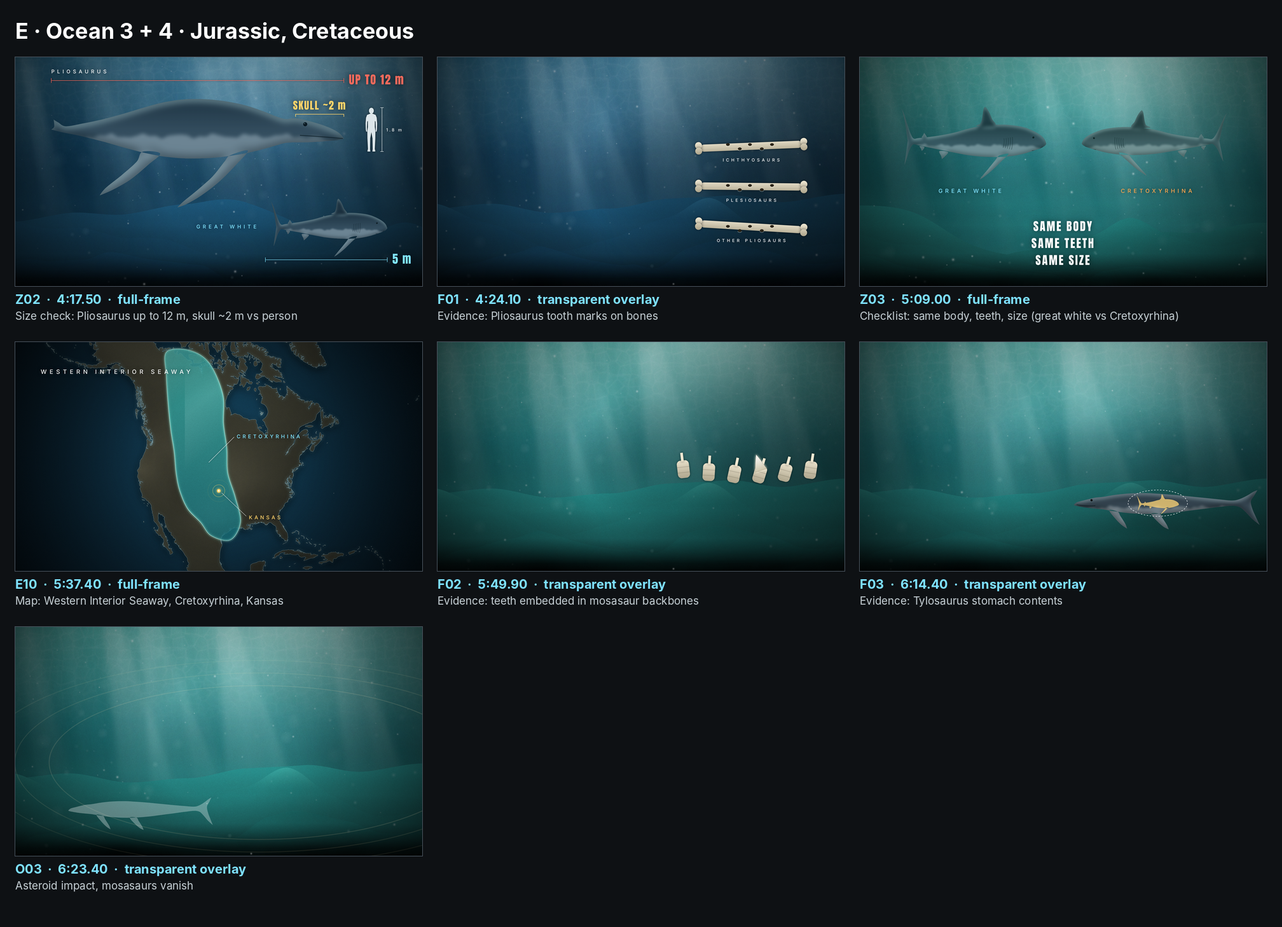
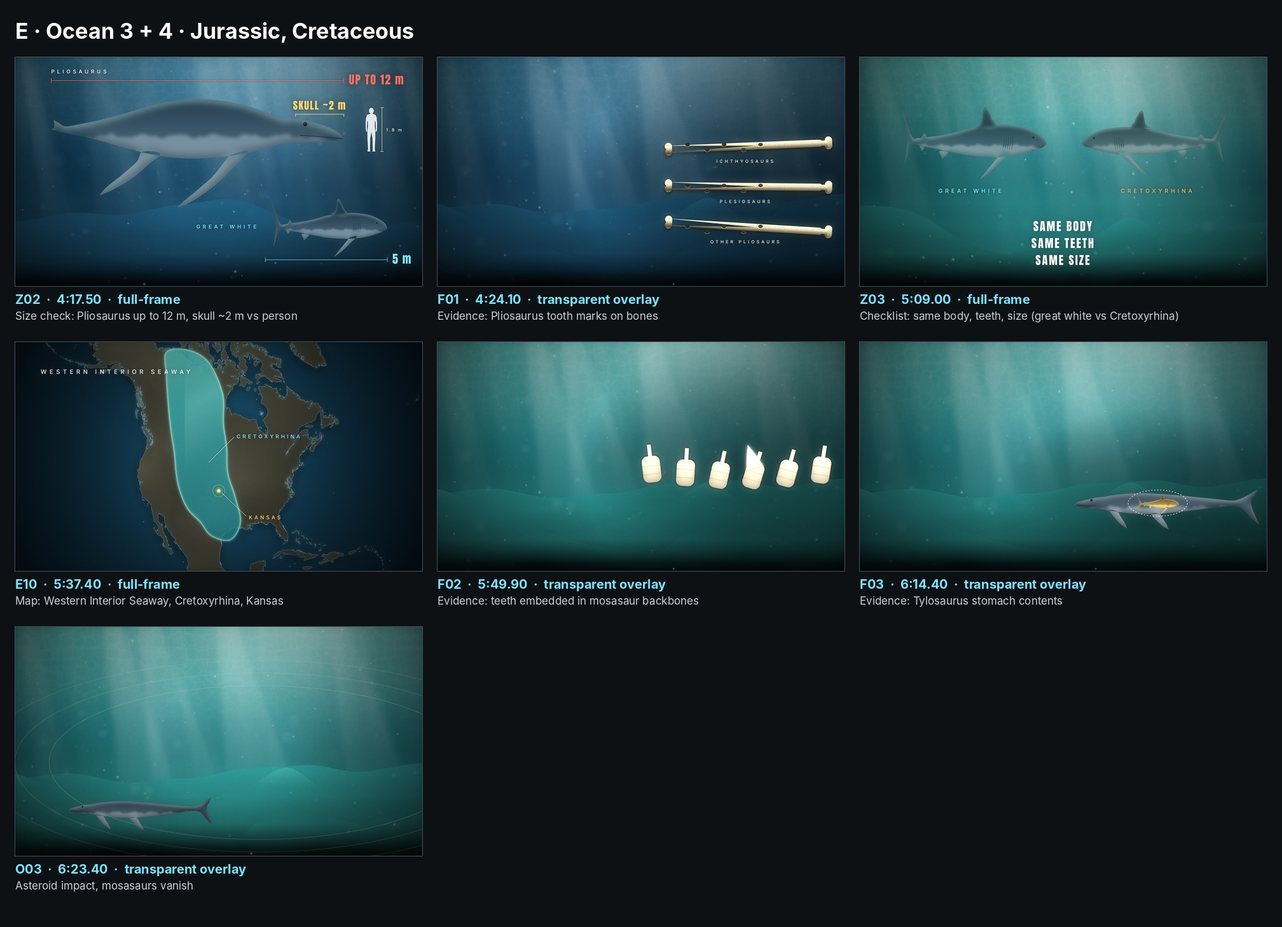
Professional lit/shaded look: shaded animals everywhere, new fish/seal/dolphin models, bloom, realistic fossils; gap graphics G07-G08; updated sheets
Claude-Session: https://claude.ai/code/session_015UoFDfg9Zm8siyh27zG8ZY

diff --git a/engine/scenes/N_E14_diet.js b/engine/scenes/N_E14_diet.js
@@ -1,8 +1,7 @@
 // E14 · VO 9:15.3  "Megalodon needed enormous meals... A great white can live on seals, fish, dolphins, or a dead whale it finds by smell."
 import { loadVO, rel } from '../lib/vo.js';
 import { cap, hair, big, veil, P, ease, lerp, fadeEdges, slow, COL } from '../lib/doc.js';
-import { drawCreature } from '../lib/creatures.js';
-import { sealIcon, fishIcon, dolphinIcon } from '../lib/props.js';
+import { lit } from '../lib/doc.js';
 const T0 = 555.3, D = 12.6; const sc = { duration: D, out: '06_doc-style/overlays/E14_diet-megalodon-vs-great-white', alpha: true, qscale: 20 };
 let R, tBut, tMeg, tGw, tSeal, tFish, tDol, tWhale;
 sc.setup = async () => { await loadVO(); R = rel(T0); tBut = R.s('built the same', 555); tMeg = R.s('enormous meals', 555); tGw = R.s('a great white can', 555); tSeal = R.s('seals', 561); tFish = R.s('fish', 562); tDol = R.s('dolphins', 563); tWhale = R.s('dead whale', 564);
@@ -13,18 +12,18 @@ sc.draw = (ctx, t) => {
   // left: megalodon, one huge meal
   const km = P(t, tMeg - 0.3, tMeg + 0.8, slow);
   cap(ctx, 'MEGALODON', 460, 330, { align: 'center', font: '500 24px Inter', ls: 12, a: km, color: '#ffa64d' });
-  drawCreature(ctx, 'megalodon', { x: 440, y: 560, len: 640, color: `rgba(255,166,77,${0.9 * km})`, phase: t * 2, flip: false });
-  ctx.save(); ctx.globalAlpha *= km; drawCreature(ctx, 'dorudon', { x: 640, y: 690, len: 300, color: 'rgba(255,255,255,0.85)', phase: 0, angle: 0.25 }); ctx.restore();
+  ctx.save(); ctx.globalAlpha *= km; lit(ctx, 'megalodon', { pal: 'rival', x: 440, y: 560, len: 640, phase: t * 2 }); ctx.restore();
+  ctx.save(); ctx.globalAlpha *= km; lit(ctx, 'dorudon', { pal: 'prey', x: 650, y: 700, len: 300, phase: 0, amp: 0, angle: 0.25 }); ctx.restore();
     // divider
   hair(ctx, 960, 300, 960, 860, P(t, tGw - 0.3, tGw + 0.6, ease.outCubic), 0.5);
   // right: great white, many options
   const kg = P(t, tGw - 0.1, tGw + 0.8, slow);
   cap(ctx, 'GREAT WHITE', 1420, 330, { align: 'center', font: '500 24px Inter', ls: 12, a: kg, color: '#7fe3ff' });
-  drawCreature(ctx, 'greatwhite', { x: 1420, y: 480, len: 400, color: `rgba(127,227,255,${0.9 * kg})`, phase: t * 4, flip: false });
-  const items = [[tSeal, 'SEALS', 1060, (x, y, a) => sealIcon(ctx, x, y, 110, '#ffffff', a, t * 4)], [tFish, 'FISH', 1210, (x, y, a) => fishIcon(ctx, x, y, 100, '#ffffff', a, false, t * 6)], [tDol, 'DOLPHINS', 1370, (x, y, a) => dolphinIcon(ctx, x, y, 130, '#ffffff', a, t * 4)]];
+  ctx.save(); ctx.globalAlpha *= kg; lit(ctx, 'greatwhite', { pal: 'gw', x: 1420, y: 480, len: 400, phase: t * 4 }); ctx.restore();
+  const items = [[tSeal, 'SEALS', 1060, (x, y, a) => { ctx.save(); ctx.globalAlpha *= a; lit(ctx, 'seal', { pal: 'grey', x, y, len: 150, phase: t * 4, fogA: 0.02 }); ctx.restore(); }], [tFish, 'FISH', 1210, (x, y, a) => { ctx.save(); ctx.globalAlpha *= a; lit(ctx, 'fish', { pal: 'grey', x, y, len: 110, phase: t * 6, fogA: 0.02 }); ctx.restore(); }], [tDol, 'DOLPHINS', 1370, (x, y, a) => { ctx.save(); ctx.globalAlpha *= a; lit(ctx, 'dolphin', { pal: 'grey', x, y, len: 190, phase: t * 4, fogA: 0.02 }); ctx.restore(); }]];
   items.forEach(([tt, name, x, draw]) => { const k = P(t, tt - 0.1, tt + 0.5, ease.outBack), ka = P(t, tt - 0.1, tt + 0.5); draw(x, 690 - (1 - Math.min(k, 1)) * 20, ka);  });
   const kw = P(t, tWhale - 0.1, tWhale + 0.6, slow);
-  if (kw > 0) { ctx.save(); ctx.globalAlpha *= kw; drawCreature(ctx, 'dorudon', { x: 1620, y: 700, len: 190, color: 'rgba(255,255,255,0.85)', phase: 0, angle: -0.45 }); ctx.strokeStyle = 'rgba(160,235,255,0.8)'; ctx.lineWidth = 2; for (let i = 0; i < 3; i++) { const a = (t * 0.8 + i / 3) % 1; ctx.globalAlpha = kw * (1 - a) * 0.8; ctx.beginPath(); ctx.arc(1620, 700, 40 + a * 120, -0.9, 0.9); ctx.stroke(); } ctx.restore(); }
+  if (kw > 0) { ctx.save(); ctx.globalAlpha *= kw; lit(ctx, 'dorudon', { pal: 'prey', x: 1620, y: 700, len: 210, phase: 0, amp: 0, angle: -0.45 }); ctx.strokeStyle = 'rgba(160,235,255,0.8)'; ctx.lineWidth = 2; for (let i = 0; i < 3; i++) { const a = (t * 0.8 + i / 3) % 1; ctx.globalAlpha = kw * (1 - a) * 0.8; ctx.beginPath(); ctx.arc(1620, 700, 40 + a * 120, -0.9, 0.9); ctx.stroke(); } ctx.restore(); }
   ctx.restore();
 };
 export default sc;

diff --git a/engine/lib/props.js b/engine/lib/props.js
@@ -1,11 +1,17 @@
+import { lit } from './doc.js';
 // Simple vector props for evidence / diet graphics (flat, clean silhouettes + a few shaded bits).
 export function bone(ctx, x, y, len, ang = 0, a = 1) {
-  ctx.save(); ctx.translate(x, y); ctx.rotate(ang); ctx.globalAlpha *= a; ctx.shadowColor = 'rgba(0,0,0,0.5)'; ctx.shadowBlur = 14;
-  const g = ctx.createLinearGradient(0, -34, 0, 34); g.addColorStop(0, '#f3ecd8'); g.addColorStop(1, '#a9a086'); ctx.fillStyle = g;
-  const h = len / 2, w = 17, k = 21;
-  ctx.beginPath(); ctx.roundRect(-h + k, -w, len - 2 * k, 2 * w, w); ctx.fill();
-  for (const sx of [-1, 1]) for (const sy of [-1, 1]) { ctx.beginPath(); ctx.arc(sx * (h - k * 0.55), sy * (k * 0.62), k * 0.78, 0, 7); ctx.fill(); }
-  ctx.restore();
+  ctx.save(); ctx.translate(x, y); ctx.rotate(ang); ctx.globalAlpha *= a;
+  const h = len / 2, w = 17, k = 22;
+  const path = new Path2D(); path.roundRect(-h + k, -w, len - 2 * k, 2 * w, w);
+  for (const sx of [-1, 1]) for (const sy of [-1, 1]) path.arc(sx * (h - k * 0.55) + k * 0.78, sy * (k * 0.62), k * 0.78, 0, Math.PI * 2);
+  ctx.shadowColor = 'rgba(0,0,0,0.55)'; ctx.shadowBlur = 16; ctx.shadowOffsetY = 6;
+  const g = ctx.createLinearGradient(0, -k, 0, k); g.addColorStop(0, '#e9e0c6'); g.addColorStop(0.45, '#bdb394'); g.addColorStop(1, '#6f664f'); ctx.fillStyle = g; ctx.fill(path);
+  ctx.shadowColor = 'transparent'; ctx.save(); ctx.clip(path);
+  for (let i = 0; i < 90; i++) { const px = -h + ((i * 53) % 100) / 100 * len, py = -k + ((i * 37) % 100) / 100 * k * 2; ctx.fillStyle = i % 3 ? 'rgba(60,48,30,0.18)' : 'rgba(255,250,230,0.16)'; ctx.beginPath(); ctx.arc(px, py, 1 + (i % 4) * 0.6, 0, 7); ctx.fill(); }
+  const hl = ctx.createLinearGradient(0, -w, 0, w * 0.2); hl.addColorStop(0, 'rgba(255,255,240,0.45)'); hl.addColorStop(1, 'rgba(255,255,240,0)'); ctx.fillStyle = hl; ctx.fillRect(-h, -w, len, w * 1.2);
+  const sd = ctx.createLinearGradient(0, 0, 0, w); sd.addColorStop(0, 'rgba(0,0,0,0)'); sd.addColorStop(1, 'rgba(20,14,6,0.45)'); ctx.fillStyle = sd; ctx.fillRect(-h, 0, len, w * 1.4);
+  ctx.restore(); ctx.restore();
 }
 // a bite puncture: dark pit with a lit rim; k = 0..1 press-in animation
 export function puncture(ctx, x, y, r, k) {
@@ -26,10 +32,9 @@ export function vertebra(ctx, x, y, s, ang = 0, a = 1) {
   ctx.strokeStyle = 'rgba(70,60,40,0.35)'; ctx.lineWidth = 1.5; ctx.beginPath(); ctx.moveTo(-s * 0.55, -s * 0.2); ctx.lineTo(s * 0.55, -s * 0.2); ctx.moveTo(-s * 0.55, s * 0.3); ctx.lineTo(s * 0.55, s * 0.3); ctx.stroke(); ctx.restore();
 }
 export function skull(ctx, x, y, s, a = 1) {
-  ctx.save(); ctx.translate(x, y); ctx.globalAlpha *= a; ctx.shadowColor = 'rgba(0,0,0,0.5)'; ctx.shadowBlur = 12;
-  const g = ctx.createLinearGradient(0, -s, 0, s); g.addColorStop(0, '#f1ead6'); g.addColorStop(1, '#aca388'); ctx.fillStyle = g;
-  ctx.beginPath(); ctx.moveTo(-s, -s * 0.2); ctx.quadraticCurveTo(-s * 0.6, -s * 0.9, -s * 0.05, -s * 0.7); ctx.lineTo(s * 1.3, -s * 0.12); ctx.lineTo(s * 1.3, s * 0.12); ctx.lineTo(s * 0.1, s * 0.35); ctx.quadraticCurveTo(-s * 0.7, s * 0.6, -s, -s * 0.2); ctx.closePath(); ctx.fill();
-  ctx.fillStyle = '#2b2418'; ctx.beginPath(); ctx.arc(-s * 0.05, -s * 0.18, s * 0.17, 0, 7); ctx.fill(); ctx.restore();
+  // a real skull: the head of the shaded Dorudon model, cropped, in bone colours
+  ctx.save(); ctx.globalAlpha *= a; const L = s * 5.2; ctx.beginPath(); ctx.rect(x - 0.13 * L, y - 0.14 * L, 0.27 * L, 0.28 * L); ctx.clip();
+  lit(ctx, 'dorudon', { pal: 'bone', x: x - 0.39 * L, y, len: L, phase: 0, amp: 0, fog: ['#0b1a1c', 0.0] }); ctx.restore();
 }
 export function plesiosaur(ctx, x, y, s, color, a = 1, dash = false) {
   ctx.save(); ctx.translate(x, y); ctx.globalAlpha *= a; ctx.fillStyle = color; ctx.strokeStyle = color; ctx.lineWidth = 2.5; if (dash) ctx.setLineDash([8, 6]);

diff --git a/engine/lib/creatures.js b/engine/lib/creatures.js
@@ -113,6 +113,28 @@ const BASI_FINS = [
   [[0.382, 0.027], [0.377, 0.036, S], [0.371, 0.027]],
 ];
 
+
+const FISH_BODY = [
+  [1.000, 0.010, S], [0.970, -0.040], [0.910, -0.085], [0.820, -0.120], [0.700, -0.140], [0.570, -0.135], [0.440, -0.110], [0.320, -0.078], [0.220, -0.046], [0.150, -0.026],
+  [0.115, -0.040], [0.075, -0.110], [0.035, -0.180], [0.000, -0.220, S], [0.030, -0.110], [0.050, -0.020], [0.060, 0.000, S], [0.050, 0.020], [0.030, 0.110], [0.000, 0.220, S],
+  [0.035, 0.180], [0.075, 0.110], [0.115, 0.040], [0.150, 0.026], [0.220, 0.046], [0.320, 0.078], [0.440, 0.110], [0.570, 0.135], [0.700, 0.140], [0.820, 0.120], [0.910, 0.085], [0.970, 0.040],
+];
+const FISH_FINS = [
+  [[0.560, -0.134], [0.510, -0.200], [0.430, -0.225, S], [0.370, -0.150], [0.340, -0.100]],
+  [[0.500, 0.132], [0.460, 0.190, S], [0.420, 0.120]],
+];
+const DOLPHIN_BODY = [
+  [1.000, 0.012, S], [0.970, 0.000], [0.930, -0.010], [0.900, -0.030], [0.860, -0.055], [0.800, -0.075], [0.700, -0.092], [0.600, -0.100], [0.500, -0.098], [0.400, -0.085], [0.300, -0.065], [0.200, -0.042], [0.120, -0.025],
+  [0.075, -0.022], [0.040, -0.050], [0.010, -0.085, S], [0.030, -0.030], [0.040, 0.000, S], [0.030, 0.030], [0.010, 0.085, S], [0.040, 0.050], [0.075, 0.022],
+  [0.120, 0.025], [0.200, 0.042], [0.300, 0.065], [0.400, 0.085], [0.500, 0.098], [0.600, 0.100], [0.700, 0.090], [0.800, 0.070], [0.860, 0.050], [0.900, 0.030], [0.940, 0.018], [0.980, 0.014],
+];
+const DOLPHIN_FINS = [[[0.520, -0.098], [0.470, -0.160], [0.430, -0.175, S], [0.400, -0.090]], [[0.680, 0.085], [0.640, 0.140, S], [0.600, 0.090]]];
+const SEAL_BODY = [
+  [1.000, 0.010, S], [0.970, -0.030], [0.930, -0.070], [0.880, -0.090], [0.840, -0.085], [0.800, -0.070], [0.740, -0.090], [0.650, -0.120], [0.520, -0.135], [0.400, -0.125], [0.280, -0.100], [0.180, -0.070], [0.100, -0.040],
+  [0.040, -0.055, S], [0.000, -0.010, S], [0.040, 0.055, S], [0.100, 0.030], [0.180, 0.070], [0.280, 0.100], [0.400, 0.125], [0.520, 0.135], [0.640, 0.120], [0.740, 0.090], [0.820, 0.075], [0.880, 0.060], [0.940, 0.040], [0.985, 0.025],
+];
+const SEAL_FINS = [[[0.680, 0.110], [0.640, 0.200, S], [0.600, 0.120]]];
+
 export const SPECIES = {
   greatwhite: { body: GW_BODY, fins: GW_FINS, eye: [0.915, -0.030, 0.0065], gills: [0.778, 0.723], mouth: [[0.976, 0.031], [0.905, 0.056]], undulate: 'tail', len: 5 },
   megalodon: { body: MEG_BODY, fins: MEG_FINS, eye: [0.912, -0.034, 0.006], gills: [0.785, 0.722], mouth: [[0.982, 0.034], [0.900, 0.066]], undulate: 'tail', len: 16 },
@@ -122,6 +144,9 @@ export const SPECIES = {
   pliosaurus: { body: PLIO_BODY, fins: PLIO_FINS, eye: [0.868, -0.018, 0.007], mouth: [[0.997, 0.031], [0.850, 0.020]], skull: 0.82, undulate: 'flippers', len: 12 },
   tylosaurus: { body: TYLO_BODY, fins: TYLO_FINS, eye: [0.905, -0.016, 0.006], mouth: [[0.985, 0.008], [0.885, 0.014]], undulate: 'tail', len: 13 },
   dorudon: { body: DORU_BODY, fins: DORU_FINS, eye: [0.875, -0.024, 0.008], mouth: [[0.995, 0.014], [0.905, 0.020]], undulate: 'vertical', len: 5 },
+  fish: { body: FISH_BODY, fins: FISH_FINS, eye: [0.90, -0.030, 0.012], undulate: 'tail', len: 1 },
+  dolphin: { body: DOLPHIN_BODY, fins: DOLPHIN_FINS, eye: [0.86, -0.020, 0.008], mouth: [[0.995, 0.014], [0.90, 0.030]], undulate: 'vertical', len: 2.5 },
+  seal: { body: SEAL_BODY, fins: SEAL_FINS, eye: [0.915, -0.040, 0.012], undulate: 'tail', len: 2 },
   basilosaurus: { body: BASI_BODY, fins: BASI_FINS, eye: [0.940, -0.008, 0.0035], mouth: [[0.998, 0.004], [0.935, 0.006]], undulate: 'vertical', len: 17 },
 };
 

diff --git a/engine/scenes/N_G04_dorudon-surface.js b/engine/scenes/N_G04_dorudon-surface.js
@@ -2,6 +2,7 @@
 import { loadVO, rel } from '../lib/vo.js';
 import { P, ease, lerp, fadeEdges, slow, COL } from '../lib/doc.js';
 import { drawCreature } from '../lib/creatures.js';
+import { lit } from '../lib/doc.js';
 const T0 = 429.6, D = 7.2; const sc = { duration: D, out: '06_doc-style/overlays/G04_dorudon-warm-surfaces', alpha: true, qscale: 20 };
 let R, tWarm, tSurf, tFam;
 sc.setup = async () => { await loadVO(); R = rel(T0); tWarm = R.s('warm blooded', 429); tSurf = R.s('surface to breathe', 429); tFam = R.s('familiar prey', 429); sc.sfx = [{ name: 'data_blip', t: tWarm, gain: -11 }, { name: 'whoosh_slow', t: tSurf, gain: -13 }, { name: 'data_blip', t: tFam, gain: -10 }]; };
@@ -11,10 +12,10 @@ sc.draw = (ctx, t) => {
   ctx.save(); ctx.globalAlpha *= 0.7 * k; ctx.strokeStyle = 'rgba(255,255,255,0.7)'; ctx.lineWidth = 2; ctx.beginPath(); for (let x = 1050; x <= 1800; x += 10) { const y = Y0 + Math.sin(x / 40 + t * 2) * 5; x === 1050 ? ctx.moveTo(x, y) : ctx.lineTo(x, y); } ctx.stroke(); ctx.restore();
   const u = P(t, tSurf - 0.2, tSurf + 2.2, ease.inOutCubic), y = lerp(640, Y0 + 40, u), kw = P(t, tWarm - 0.2, tWarm + 0.6, slow);
   if (kw > 0) { const g = ctx.createRadialGradient(1420, y, 20, 1420, y, 260); g.addColorStop(0, `rgba(255,150,80,${0.45 * kw})`); g.addColorStop(1, 'rgba(255,120,60,0)'); ctx.fillStyle = g; ctx.fillRect(1100, y - 280, 640, 560); }
-  ctx.save(); ctx.globalAlpha *= k; drawCreature(ctx, 'dorudon', { x: 1420, y, len: 360, style: 'shaded', phase: t * 3, flip: true, angle: -0.25 * (1 - u), rim: 'rgba(255,200,150,0.7)' }); ctx.restore();
+  ctx.save(); ctx.globalAlpha *= k; lit(ctx, 'dorudon', { pal: 'prey', x: 1380, y, len: 560, phase: t * 3, flip: true, angle: -0.25 * (1 - u) }); ctx.restore();
   if (u > 0.85) { ctx.save(); ctx.strokeStyle = 'rgba(220,245,255,0.9)'; ctx.lineWidth = 3; for (let i = 0; i < 5; i++) { const a = (t * 1.5 + i / 5) % 1; ctx.globalAlpha = (1 - a) * 0.85 * fadeEdges(t, D, 0.5, 0.9); ctx.beginPath(); ctx.moveTo(1300 + i * 4, Y0 - 5); ctx.lineTo(1300 + i * 4 + (i - 2) * 8, Y0 - 10 - a * 90); ctx.stroke(); } ctx.restore(); }
   const kf = P(t, tFam, tFam + 0.6, slow);
-  if (kf > 0) { ctx.save(); ctx.globalAlpha *= kf; drawCreature(ctx, 'greatwhite', { x: 1160, y: 820, len: 170, color: 'rgba(127,227,255,0.95)', phase: t * 4 }); drawCreature(ctx, 'dorudon', { x: 1560, y: 820, len: 420, color: 'rgba(255,214,120,0.9)', phase: t * 3, flip: true }); ctx.strokeStyle = 'rgba(255,255,255,0.6)'; ctx.lineWidth = 2; ctx.setLineDash([8, 8]); ctx.beginPath(); ctx.moveTo(1260, 820); ctx.lineTo(1340, 820); ctx.stroke(); ctx.restore(); }
+  if (kf > 0) { ctx.save(); ctx.globalAlpha *= kf; lit(ctx, 'greatwhite', { pal: 'gw', x: 1120, y: 850, len: 260, phase: t * 4 }); lit(ctx, 'dorudon', { pal: 'prey', x: 1560, y: 850, len: 520, phase: t * 3, flip: true }); ctx.strokeStyle = 'rgba(255,255,255,0.6)'; ctx.lineWidth = 2; ctx.setLineDash([8, 8]); ctx.beginPath(); ctx.moveTo(1270, 850); ctx.lineTo(1300, 850); ctx.stroke(); ctx.restore(); }
   ctx.restore();
 };
 export default sc;

diff --git a/engine/scenes/N_G02_air-breathers.js b/engine/scenes/N_G02_air-breathers.js
@@ -1,20 +1,20 @@
 // G02 · VO 3:52.96  "Ichthyosaurs breathe air. Sooner or later, every one of them has to come up, and a shark waiting in the dark below gets the first strike."
 import { loadVO, rel } from '../lib/vo.js';
 import { P, ease, lerp, fadeEdges, slow, COL } from '../lib/doc.js';
-import { drawCreature } from '../lib/creatures.js';
+import { lit } from '../lib/doc.js';
 const T0 = 232.9, D = 8.6; const sc = { duration: D, out: '06_doc-style/overlays/G02_air-breathers-must-surface', alpha: true, qscale: 20 };
 let R, tAir, tUp, tWait;
 sc.setup = async () => { await loadVO(); R = rel(T0); tAir = R.s('breathe air', 232); tUp = R.s('has to come up', 232); tWait = R.s('waiting in the dark', 232); sc.sfx = [{ name: 'data_blip', t: tAir, gain: -11 }, { name: 'whoosh_slow', t: tUp, gain: -13 }, { name: 'impact_dark', t: tWait + 0.5, gain: -11 }]; };
 sc.draw = (ctx, t) => {
   ctx.save(); ctx.globalAlpha = fadeEdges(t, D, 0.5, 0.9);
-  const X0 = 1350, X1 = 1750, Y0 = 170, Y1 = 900;
+  const X0 = 1250, X1 = 1800, Y0 = 170, Y1 = 900;
   const g = ctx.createLinearGradient(0, Y0, 0, Y1); g.addColorStop(0, 'rgba(120,200,255,0.18)'); g.addColorStop(1, 'rgba(0,0,0,0.55)'); ctx.fillStyle = g; ctx.globalAlpha *= P(t, 0.1, 0.8, slow); ctx.fillRect(X0, Y0, X1 - X0, Y1 - Y0);
   ctx.strokeStyle = 'rgba(255,255,255,0.7)'; ctx.lineWidth = 2; ctx.beginPath(); ctx.moveTo(X0 - 30, Y0); ctx.lineTo(X1 + 30, Y0); ctx.stroke(); ctx.globalAlpha = 1;
   // shark waits in the dark at the bottom (eye glint)
-  const ks = P(t, tWait - 0.3, tWait + 0.6, slow); ctx.save(); ctx.globalAlpha = fadeEdges(t, D, 0.5, 0.9) * ks; drawCreature(ctx, 'greatwhite', { x: 1550, y: Y1 - 70, len: 240, color: 'rgba(160,230,255,0.9)', phase: t * 3 }); ctx.restore();
+  const ks = P(t, tWait - 0.3, tWait + 0.6, slow); ctx.save(); ctx.globalAlpha = fadeEdges(t, D, 0.5, 0.9) * ks; lit(ctx, 'greatwhite', { pal: 'gw', x: 1520, y: Y1 - 80, len: 350, phase: t * 3 }); ctx.restore();
   // ichthyosaur rises to the surface, takes a breath
   const u = P(t, tUp - 0.2, tUp + 2.6, ease.inOutCubic), ky = lerp(Y1 - 360, Y0 + 60, u), kin = P(t, tAir - 0.3, tAir + 0.5, slow);
-  ctx.save(); ctx.globalAlpha = fadeEdges(t, D, 0.5, 0.9) * kin; drawCreature(ctx, 'ichthyosaur', { x: 1550, y: ky, len: 210, color: 'rgba(255,214,120,0.95)', phase: t * 4, angle: -0.9 * (1 - u) - 0.2 }); ctx.restore();
+  ctx.save(); ctx.globalAlpha = fadeEdges(t, D, 0.5, 0.9) * kin; lit(ctx, 'ichthyosaur', { pal: 'prey', x: 1520, y: ky, len: 300, phase: t * 4, angle: -0.9 * (1 - u) - 0.2 }); ctx.restore();
   if (u > 0.9) { ctx.save(); ctx.strokeStyle = 'rgba(220,245,255,0.85)'; ctx.lineWidth = 2.5; for (let i = 0; i < 4; i++) { const a = (t * 1.4 + i / 4) % 1; ctx.globalAlpha = (1 - a) * 0.8 * fadeEdges(t, D, 0.5, 0.9); ctx.beginPath(); ctx.arc(1590 + i * 6, Y0 - 10 - a * 60, 5 + a * 8, 0, 7); ctx.stroke(); } ctx.restore(); }
   ctx.restore();
 };

diff --git a/engine/scenes/N_G08_jaws-close-carcass.js b/engine/scenes/N_G08_jaws-close-carcass.js
@@ -1,0 +1,25 @@
+// G08 · VO 4:09.8  "Then jaws close on the carcass, one body-length from the shark. The great white lets go."
+import { loadVO, rel } from '../lib/vo.js';
+import { P, ease, lerp, fadeEdges, slow, COL } from '../lib/doc.js';
+import { lit } from '../lib/doc.js';
+const T0 = 249.8, D = 5.6; const sc = { duration: D, out: '06_doc-style/overlays/G08_jaws-close-great-white-lets-go', alpha: true, qscale: 20 };
+let R, tJaws, tLet;
+sc.setup = async () => { await loadVO(); R = rel(T0); tJaws = R.s('jaws close', 249); tLet = R.s('lets go', 249); sc.sfx = [{ name: 'impact_deep', t: tJaws + 0.15, gain: -4 }, { name: 'impact_hit', t: tJaws + 0.2, gain: -8 }, { name: 'whoosh_water', t: tLet, gain: -11 }]; };
+sc.draw = (ctx, t) => {
+  ctx.save(); ctx.globalAlpha = fadeEdges(t, D, 0.4, 0.8);
+  const cx = 1340, cy = 600, k = P(t, 0.05, 0.6, slow), ang = lerp(0.62, 0.02, P(t, tJaws - 0.1, tJaws + 0.18, ease.inQuad));
+  for (let i = 0; i < 12; i++) { const px = cx - 150 + i * 28, py = cy + Math.sin(t * 1.4 + i * 1.3) * 16, r = 40 + (i % 3) * 14; const g = ctx.createRadialGradient(px, py, 0, px, py, r); g.addColorStop(0, `rgba(255,70,60,${0.26 * k})`); g.addColorStop(1, 'rgba(255,70,60,0)'); ctx.fillStyle = g; ctx.fillRect(px - r, py - r, r * 2, r * 2); }
+  ctx.save(); ctx.globalAlpha *= k; lit(ctx, 'ichthyosaur', { pal: 'prey', x: cx, y: cy + 4, len: 420, phase: 0, amp: 0, flip: true, angle: 0.1 }); ctx.restore();
+  // Pliosaurus lunges in from the right and its jaws land on the carcass
+  const lunge = P(t, tJaws - 0.5, tJaws + 0.1, ease.inQuad), px = lerp(cx + 1000, cx + 640, lunge);
+  lit(ctx, 'pliosaurus', { pal: 'dark', x: px, y: cy - 4, len: 1200, phase: t * 3, flip: true, fog: ['#07161c', 0.12] });
+  const fl = Math.exp(-Math.max(0, t - tJaws - 0.1) * 5) * P(t, tJaws, tJaws + 0.05);
+  if (fl > 0.02) { ctx.save(); ctx.globalCompositeOperation = 'lighter'; const g = ctx.createRadialGradient(cx + 120, cy, 0, cx + 120, cy, 280); g.addColorStop(0, `rgba(255,120,90,${0.6 * fl})`); g.addColorStop(1, 'rgba(255,90,60,0)'); ctx.fillStyle = g; ctx.fillRect(cx - 200, cy - 300, 640, 600); ctx.restore(); }
+  // great white one body-length away, then lets go (backs off)
+  const back = P(t, tLet - 0.1, tLet + 1.2, ease.inOutCubic), gx = lerp(cx - 560, cx - 860, back);
+  ctx.save(); ctx.globalAlpha *= k; lit(ctx, 'greatwhite', { pal: 'gw', x: gx, y: cy + 4, len: 330, phase: t * 5 }); ctx.restore();
+  // one body-length bracket
+  const kb = P(t, tJaws + 0.3, tJaws + 0.9, slow) * (1 - back); if (kb > 0) { ctx.save(); ctx.globalAlpha *= kb; ctx.strokeStyle = '#fff'; ctx.lineWidth = 2.5; const x1 = gx + 165, x2 = cx - 165; ctx.beginPath(); ctx.moveTo(x1, cy + 90); ctx.lineTo(x2, cy + 90); ctx.moveTo(x1, cy + 78); ctx.lineTo(x1, cy + 102); ctx.moveTo(x2, cy + 78); ctx.lineTo(x2, cy + 102); ctx.stroke(); ctx.restore(); }
+  ctx.restore();
+};
+export default sc;

diff --git a/engine/scenes/N_G03_split-carcass.js b/engine/scenes/N_G03_split-carcass.js
@@ -1,18 +1,19 @@
 // G03 · VO 5:34.4  "Both sharks peel away, bleeding, and settle at opposite ends of the carcass. Neither one wins. They split it."
 import { loadVO, rel } from '../lib/vo.js';
 import { P, ease, lerp, fadeEdges, slow, COL } from '../lib/doc.js';
-import { drawCreature } from '../lib/creatures.js';
+import { lit } from '../lib/doc.js';
 const T0 = 333.4, D = 4.4; const sc = { duration: D, out: '06_doc-style/overlays/G03_split-the-carcass', alpha: true, qscale: 20 };
 let R, tNeither, tSplit;
 sc.setup = async () => { await loadVO(); R = rel(T0); tNeither = R.s('neither one', 333); tSplit = R.s('they split', 333); sc.sfx = [{ name: 'data_blip', t: tNeither, gain: -11 }, { name: 'ui_drop', t: tSplit, gain: -8 }]; };
 sc.draw = (ctx, t) => {
   ctx.save(); ctx.globalAlpha = fadeEdges(t, D, 0.4, 0.7);
-  const cx = 1460, cy = 760, k = P(t, 0.05, 0.6, slow), ks = P(t, tSplit, tSplit + 0.5, ease.outCubic);
-  ctx.save(); ctx.globalAlpha *= k; ctx.fillStyle = 'rgba(255,150,130,0.85)'; ctx.shadowColor = 'rgba(255,90,70,0.8)'; ctx.shadowBlur = 20; ctx.beginPath(); ctx.roundRect(cx - 170, cy - 24, 340, 48, 24); ctx.fill(); ctx.restore();
+  const cx = 1330, cy = 720, k = P(t, 0.05, 0.6, slow), ks = P(t, tSplit, tSplit + 0.5, ease.outCubic);
+  for (let i = 0; i < 14; i++) { const px = cx - 170 + i * 26 + Math.sin(t * 1.2 + i) * 10, py = cy + Math.sin(t * 1.6 + i * 1.7) * 18, r = 40 + (i % 4) * 14; const g = ctx.createRadialGradient(px, py, 0, px, py, r); g.addColorStop(0, `rgba(255,70,60,${0.28 * k})`); g.addColorStop(1, 'rgba(255,70,60,0)'); ctx.fillStyle = g; ctx.fillRect(px - r, py - r, r * 2, r * 2); }
+  ctx.save(); ctx.globalAlpha *= k; lit(ctx, 'tylosaurus', { pal: 'threat', x: cx, y: cy + 6, len: 560, phase: 0, amp: 0, angle: 0.07, flip: true }); ctx.restore();
   ctx.save(); ctx.globalAlpha *= ks; ctx.strokeStyle = '#fff'; ctx.lineWidth = 2.5; ctx.setLineDash([6, 6]); ctx.beginPath(); ctx.moveTo(cx, cy - 70); ctx.lineTo(cx, cy + 70); ctx.stroke(); ctx.restore();
   const m = P(t, tNeither - 0.3, tNeither + 0.8, ease.outCubic);
-  drawCreature(ctx, 'greatwhite', { x: lerp(cx - 420, cx - 330, m), y: cy, len: 230, color: 'rgba(127,227,255,0.95)', phase: t * 3, alpha: k });
-  drawCreature(ctx, 'cretoxyrhina', { x: lerp(cx + 420, cx + 330, m), y: cy, len: 225, color: 'rgba(255,166,77,0.95)', phase: t * 3 + 1, flip: true, alpha: k });
+  lit(ctx, 'greatwhite', { pal: 'gw', x: lerp(cx - 560, cx - 470, m), y: cy, len: 330, phase: t * 3, alpha: k });
+  lit(ctx, 'cretoxyrhina', { pal: 'rival', x: lerp(cx + 560, cx + 470, m), y: cy, len: 320, phase: t * 3 + 1, flip: true, alpha: k });
   ctx.restore();
 };
 export default sc;

diff --git a/engine/scenes/N_G06_hunts-calves.js b/engine/scenes/N_G06_hunts-calves.js
@@ -1,17 +1,17 @@
 // G06 · VO 7:46.93  "It hunts calves, not sharks."
 import { loadVO, rel } from '../lib/vo.js';
 import { P, ease, lerp, fadeEdges, slow, COL } from '../lib/doc.js';
-import { drawCreature } from '../lib/creatures.js';
+import { lit } from '../lib/doc.js';
 const T0 = 466.8, D = 3.4; const sc = { duration: D, out: '06_doc-style/overlays/G06_hunts-calves-not-sharks', alpha: true, qscale: 20 };
 let R, tCalf, tShark;
 sc.setup = async () => { await loadVO(); R = rel(T0); tCalf = R.s('calves', 466); tShark = R.s('not sharks', 466); sc.sfx = [{ name: 'data_blip', t: tCalf, gain: -10 }, { name: 'impact_dark', t: tShark, gain: -10 }]; };
 sc.draw = (ctx, t) => {
   ctx.save(); ctx.globalAlpha = fadeEdges(t, D, 0.4, 0.6);
   const kc = P(t, tCalf - 0.2, tCalf + 0.5, ease.outBack), ks = P(t, tShark - 0.1, tShark + 0.5, ease.outBack), ka = P(t, 0.05, 0.6, slow);
-  drawCreature(ctx, 'dorudon', { x: 1180, y: 540, len: 230, color: 'rgba(255,214,120,0.95)', phase: t * 3, flip: true, alpha: kc });
-  drawCreature(ctx, 'greatwhite', { x: 1620, y: 540, len: 230, color: 'rgba(127,227,255,0.95)', phase: t * 4, alpha: ks });
-  const mark = (x, y, ok, k) => { if (k <= 0) return; ctx.save(); ctx.globalAlpha *= Math.min(1, k); ctx.lineWidth = 8; ctx.lineCap = 'round'; ctx.lineJoin = 'round'; ctx.strokeStyle = ok ? COL.ok : COL.bad; ctx.shadowColor = ctx.strokeStyle; ctx.shadowBlur = 16; ctx.beginPath(); if (ok) { ctx.moveTo(x - 30, y); ctx.lineTo(x - 8, y + 24); ctx.lineTo(x + 34, y - 26); } else { ctx.moveTo(x - 28, y - 28); ctx.lineTo(x + 28, y + 28); ctx.moveTo(x + 28, y - 28); ctx.lineTo(x - 28, y + 28); } ctx.stroke(); ctx.restore(); };
-  mark(1180, 720, true, kc); mark(1620, 720, false, ks);
+  lit(ctx, 'dorudon', { pal: 'prey', x: 1150, y: 540, len: 380, phase: t * 3, flip: true, alpha: kc });
+  lit(ctx, 'greatwhite', { pal: 'gw', x: 1640, y: 540, len: 380, phase: t * 4, alpha: ks * (1 - 0.55 * P(t, tShark + 0.3, tShark + 0.9)), fog: ['#0b1a1c', 0.1 + 0.5 * P(t, tShark + 0.3, tShark + 0.9)] });
+  // target reticle locks on the calf, not on the shark
+  if (kc > 0) { ctx.save(); ctx.globalAlpha *= Math.min(1, kc); ctx.strokeStyle = 'rgba(255,220,140,0.95)'; ctx.lineWidth = 2.5; ctx.shadowColor = '#ffd36a'; ctx.shadowBlur = 16; const r = 150 - 20 * Math.min(1, kc); ctx.beginPath(); ctx.arc(1180, 540, r, 0, 7); ctx.stroke(); for (let i = 0; i < 4; i++) { const a = i * Math.PI / 2 + t * 0.6; ctx.beginPath(); ctx.moveTo(1180 + Math.cos(a) * (r - 14), 540 + Math.sin(a) * (r - 14)); ctx.lineTo(1180 + Math.cos(a) * (r + 16), 540 + Math.sin(a) * (r + 16)); ctx.stroke(); } ctx.restore(); }
   ctx.restore();
 };
 export default sc;

diff --git a/engine/scenes/N_G01_ambush-from-below.js b/engine/scenes/N_G01_ambush-from-below.js
@@ -2,6 +2,7 @@
 import { loadVO, rel } from '../lib/vo.js';
 import { hair, P, ease, lerp, fadeEdges, slow, COL } from '../lib/doc.js';
 import { drawCreature, creaturePath } from '../lib/creatures.js';
+import { lit } from '../lib/doc.js';
 const T0 = 221.2, D = 6.4; const sc = { duration: D, out: '06_doc-style/overlays/G01_ambush-from-below', alpha: true, qscale: 20 };
 let R, tUp, tHit;
 sc.setup = async () => { await loadVO(); R = rel(T0); tUp = R.s('straight up', 221); tHit = R.s('connects', 221); sc.sfx = [{ name: 'whoosh_water', t: tUp, gain: -10 }, { name: 'impact_hit', t: tHit + 0.1, gain: -9 }]; };
@@ -9,11 +10,11 @@ sc.draw = (ctx, t) => {
   ctx.save(); ctx.globalAlpha = fadeEdges(t, D, 0.5, 0.8);
   const k = P(t, 0.1, 0.8, slow);
   ctx.save(); ctx.globalAlpha *= 0.7 * k; ctx.strokeStyle = 'rgba(255,255,255,0.7)'; ctx.lineWidth = 2; ctx.beginPath(); for (let x = 1000; x <= 1800; x += 10) { const y = 250 + Math.sin(x / 40 + t * 2) * 5; x === 1000 ? ctx.moveTo(x, y) : ctx.lineTo(x, y); } ctx.stroke(); ctx.restore();
-  const ich = { x: 1400, y: 330, len: 420, phase: t * 3, flip: true }; ctx.save(); ctx.globalAlpha *= k; drawCreature(ctx, 'ichthyosaur', { ...ich, style: 'shaded', rim: 'rgba(200,230,240,0.5)' }); ctx.restore();
+  const ich = { x: 1350, y: 330, len: 640, phase: t * 3, flip: true }; ctx.save(); ctx.globalAlpha *= k; drawCreature(ctx, 'ichthyosaur', { ...ich, style: 'shaded', rim: 'rgba(200,230,240,0.5)' }); ctx.restore();
   const { map } = creaturePath('ichthyosaur', ich), fl = map(0.58, 0.07), hitp = map(0.42, 0.045);
   const u = P(t, tUp, tHit + 0.1, ease.inQuad), sy = lerp(900, hitp[1] + 70, u), sx = lerp(1250, hitp[0] - 10, u);
   ctx.save(); ctx.strokeStyle = 'rgba(255,255,255,0.55)'; ctx.lineWidth = 2; ctx.setLineDash([9, 9]); ctx.globalAlpha *= P(t, tUp - 0.2, tUp + 0.4); ctx.beginPath(); ctx.moveTo(1250, 900); ctx.lineTo(sx, sy); ctx.stroke(); ctx.restore();
-  ctx.save(); ctx.globalAlpha *= P(t, tUp - 0.4, tUp + 0.2); drawCreature(ctx, 'greatwhite', { x: sx, y: sy, len: 230, color: 'rgba(127,227,255,0.95)', phase: t * 7, angle: -1.2 }); ctx.restore();
+  ctx.save(); ctx.globalAlpha *= P(t, tUp - 0.4, tUp + 0.2); lit(ctx, 'greatwhite', { pal: 'gw', x: sx, y: sy, len: 330, phase: t * 7, angle: -1.2 }); ctx.restore();
   const kh = P(t, tHit, tHit + 0.5, ease.outBack); if (kh > 0) { ctx.save(); ctx.strokeStyle = COL.bad; ctx.lineWidth = 4; ctx.shadowColor = COL.bad; ctx.shadowBlur = 16; ctx.globalAlpha = kh; ctx.beginPath(); ctx.arc(hitp[0], hitp[1], 22 * kh, 0, 7); ctx.stroke(); ctx.restore(); }
   ctx.restore();
 };

diff --git a/engine/scenes/N_G05_empty-seas.js b/engine/scenes/N_G05_empty-seas.js
@@ -1,15 +1,15 @@
 // G05 · VO 7:17.0  "No mosasaurs. No pliosaurs. The giant marine reptiles are gone, and nothing has taken their place yet."
 import { loadVO, rel } from '../lib/vo.js';
 import { P, ease, lerp, fadeEdges, slow, COL } from '../lib/doc.js';
-import { drawCreature } from '../lib/creatures.js';
-const T0 = 436.9, D = 7.2; const sc = { duration: D, out: '06_doc-style/overlays/G05_no-mosasaurs-no-pliosaurs', alpha: true, qscale: 20 };
+import { lit } from '../lib/doc.js';
+const T0 = 436.2, D = 7.9; const sc = { duration: D, out: '06_doc-style/overlays/G05_no-mosasaurs-no-pliosaurs', alpha: true, qscale: 20 };
 let R, tM, tP, tGone;
 sc.setup = async () => { await loadVO(); R = rel(T0); tM = R.s('no mosasaurs', 436); tP = R.s('no pliosaurs', 436); tGone = R.s('are gone', 436); sc.sfx = [{ name: 'impact_dark', t: tM + 0.1, gain: -12 }, { name: 'impact_dark', t: tP + 0.1, gain: -12 }, { name: 'whoosh_slow', t: tGone, gain: -14 }];
 };
 sc.draw = (ctx, t) => {
   ctx.save(); ctx.globalAlpha = fadeEdges(t, D, 0.5, 0.9);
-  const one = (name, x, y, len, tt, flip) => { const k = P(t, tt - 0.7, tt - 0.1, slow), gone = P(t, tt + 0.1, tt + 0.9, slow); if (k <= 0) return; ctx.save(); ctx.globalAlpha *= k * (1 - gone * 0.92); drawCreature(ctx, name, { x, y, len, color: 'rgba(255,255,255,0.85)', phase: t * 3, flip }); ctx.restore();
-    if (gone > 0) { ctx.save(); ctx.globalAlpha *= gone; ctx.strokeStyle = COL.bad; ctx.lineWidth = 6; ctx.lineCap = 'round'; ctx.shadowColor = COL.bad; ctx.shadowBlur = 14; ctx.beginPath(); ctx.moveTo(x - 50, y - 50); ctx.lineTo(x + 50, y + 50); ctx.moveTo(x + 50, y - 50); ctx.lineTo(x - 50, y + 50); ctx.stroke(); ctx.restore(); } };
+  const one = (name, x, y, len, tt, flip) => { const k = P(t, tt - 0.7, tt - 0.1, slow), gone = P(t, tt + 0.1, tt + 1.4, ease.inOutQuad); if (k <= 0) return; ctx.save(); ctx.globalAlpha *= k * (1 - gone); lit(ctx, name, { pal: 'grey', x, y, len, phase: t * 3, flip, fog: ['#0b1a1c', 0.1 + gone * 0.5], blur: gone * 5 }); ctx.restore();
+    if (gone > 0) for (let i = 0; i < 46; i++) { const u = (i * 0.137) % 1, px = x - len / 2 + u * len + gone * (30 + 60 * ((i * 7) % 5) / 5), py = y - 40 + ((i * 53) % 80) - gone * (60 + 80 * u), a = (1 - gone) * 0.8 * (0.4 + 0.6 * ((i * 13) % 7) / 7); ctx.save(); ctx.globalAlpha *= a; ctx.fillStyle = '#d9ecf0'; ctx.beginPath(); ctx.arc(px, py, 2.2 + (i % 3), 0, 7); ctx.fill(); ctx.restore(); } };
   one('tylosaurus', 1350, 380, 560, tM, true); one('pliosaurus', 1350, 700, 560, tP, true);
   ctx.restore();
 };

diff --git a/engine/scenes/N_F04_basilosaurus-stomach.js b/engine/scenes/N_F04_basilosaurus-stomach.js
@@ -3,6 +3,7 @@ import { loadVO, rel } from '../lib/vo.js';
 import { cap, hair, big, veil, P, ease, lerp, fadeEdges, slow, COL } from '../lib/doc.js';
 import { drawCreature, creaturePath } from '../lib/creatures.js';
 import { skull, puncture } from '../lib/props.js';
+import { lit } from '../lib/doc.js';
 const T0 = 460.7, D = 6.3; const sc = { duration: D, out: '06_doc-style/overlays/F04_basilosaurus-stomach-and-bite-marks', alpha: true, qscale: 20 };
 let R, tTwo, tSk;
 sc.setup = async () => { await loadVO(); R = rel(T0); tTwo = R.s('two young', 460); tSk = R.s('calf skulls', 460); sc.sfx = [{ name: 'data_blip', t: tTwo, gain: -11 }, { name: 'data_blip', t: tTwo + 0.4, gain: -12 }, { name: 'impact_hit', t: tSk + 0.5, gain: -16 }]; };
@@ -13,11 +14,11 @@ sc.draw = (ctx, t) => {
   const { map } = creaturePath('basilosaurus', o), st = map(0.55, 0.0);
   const kw = P(t, tTwo - 0.4, tTwo + 0.3, slow);
   ctx.save(); ctx.globalAlpha *= kw; ctx.strokeStyle = '#fff'; ctx.lineWidth = 2; ctx.setLineDash([7, 7]); ctx.beginPath(); ctx.ellipse(st[0], st[1], 120, 46, 0, 0, 7); ctx.stroke(); ctx.restore();
-  for (let i = 0; i < 2; i++) { ctx.save(); ctx.globalAlpha *= P(t, tTwo + i * 0.4, tTwo + 0.5 + i * 0.4, slow); drawCreature(ctx, 'dorudon', { x: st[0] - 40 + i * 80, y: st[1] + 2 - i * 3, len: 100, color: 'rgba(255,214,120,0.95)', phase: 0, angle: i ? 0.12 : -0.1 }); ctx.restore(); }
+  for (let i = 0; i < 2; i++) { ctx.save(); ctx.globalAlpha *= P(t, tTwo + i * 0.4, tTwo + 0.5 + i * 0.4, slow); lit(ctx, 'dorudon', { pal: 'prey', x: st[0] - 40 + i * 80, y: st[1] + 2 - i * 3, len: 100, phase: 0, amp: 0, angle: i ? 0.12 : -0.1 }); ctx.restore(); }
     // calf skulls with bite marks
   const ks = P(t, tSk, tSk + 0.6, slow);
   if (ks > 0) { for (let i = 0; i < 2; i++) { const x = 1330 + i * 230, y = 330 + i * 40; skull(ctx, x, y, 60, ks);
-      puncture(ctx, x + 30, y - 38, 8, P(t, tSk + 0.5 + i * 0.1, tSk + 0.8 + i * 0.1)); puncture(ctx, x + 66, y - 28, 8, P(t, tSk + 0.6 + i * 0.1, tSk + 0.9 + i * 0.1)); puncture(ctx, x + 8, y + 32, 8, P(t, tSk + 0.7 + i * 0.1, tSk + 1.0 + i * 0.1)); }
+      puncture(ctx, x + 22, y - 18, 7, P(t, tSk + 0.5 + i * 0.1, tSk + 0.8 + i * 0.1)); puncture(ctx, x + 50, y - 10, 7, P(t, tSk + 0.6 + i * 0.1, tSk + 0.9 + i * 0.1)); puncture(ctx, x - 10, y + 12, 7, P(t, tSk + 0.7 + i * 0.1, tSk + 1.0 + i * 0.1)); }
     }
   ctx.restore();
 };

diff --git a/engine/scenes/N_G07_blood-trail.js b/engine/scenes/N_G07_blood-trail.js
@@ -1,0 +1,19 @@
+// G07 · VO 4:04.4  "But blood carries. Something much bigger is coming up the trail."
+import { loadVO, rel } from '../lib/vo.js';
+import { P, ease, lerp, fadeEdges, slow, COL } from '../lib/doc.js';
+import { lit } from '../lib/doc.js';
+import { mulberry } from '../lib/core.js';
+const T0 = 244.3, D = 5.2; const sc = { duration: D, out: '06_doc-style/overlays/G07_blood-carries-something-bigger', alpha: true, qscale: 20 };
+let R, tBlood, tBig; const r = mulberry(7), puffs = Array.from({ length: 26 }, () => ({ u: r(), y: r() - 0.5, s: 0.6 + r() * 0.8 }));
+sc.setup = async () => { await loadVO(); R = rel(T0); tBlood = R.s('blood carries', 244); tBig = R.s('much bigger', 244); sc.sfx = [{ name: 'data_blip', t: tBlood, gain: -11 }, { name: 'rumble_bed', t: tBig - 0.3, gain: -9 }, { name: 'impact_deep', t: tBig + 1.2, gain: -9 }]; };
+sc.draw = (ctx, t) => {
+  ctx.save(); ctx.globalAlpha = fadeEdges(t, D, 0.5, 0.8);
+  const y0 = 600, kb = P(t, tBlood - 0.1, tBlood + 1.4, ease.outCubic);   // blood trail drifts from the shark's carcass (left) to the right
+  puffs.forEach(p => { const x = 1000 + p.u * 800 * kb, y = y0 + p.y * 120 + Math.sin(t * 1.3 + p.u * 9) * 14; const rr = 30 + 55 * p.s * kb; const g = ctx.createRadialGradient(x, y, 0, x, y, rr); g.addColorStop(0, `rgba(255,70,60,${0.30 * (1 - p.u * 0.5)})`); g.addColorStop(1, 'rgba(255,70,60,0)'); ctx.fillStyle = g; ctx.fillRect(x - rr, y - rr, rr * 2, rr * 2); });
+  // something much bigger: a huge silhouette slides in along the trail from the far right, lost in the fog
+  const u = P(t, tBig - 0.2, D - 0.6, ease.inOutQuad);
+  ctx.save(); ctx.globalAlpha *= P(t, tBig - 0.3, tBig + 0.6, slow) * 0.85; lit(ctx, 'pliosaurus', { pal: 'dark', x: lerp(2250, 1500, u), y: y0 - 20, len: 1000, phase: t * 3, flip: true, blur: 2, fog: ['#07161c', 0.35] }); ctx.restore();
+  ctx.save(); ctx.globalAlpha *= P(t, 0.1, 0.7, slow); lit(ctx, 'greatwhite', { pal: 'gw', x: 1060, y: y0 + 6, len: 280, phase: t * 4 }); ctx.restore();
+  ctx.restore();
+};
+export default sc;
